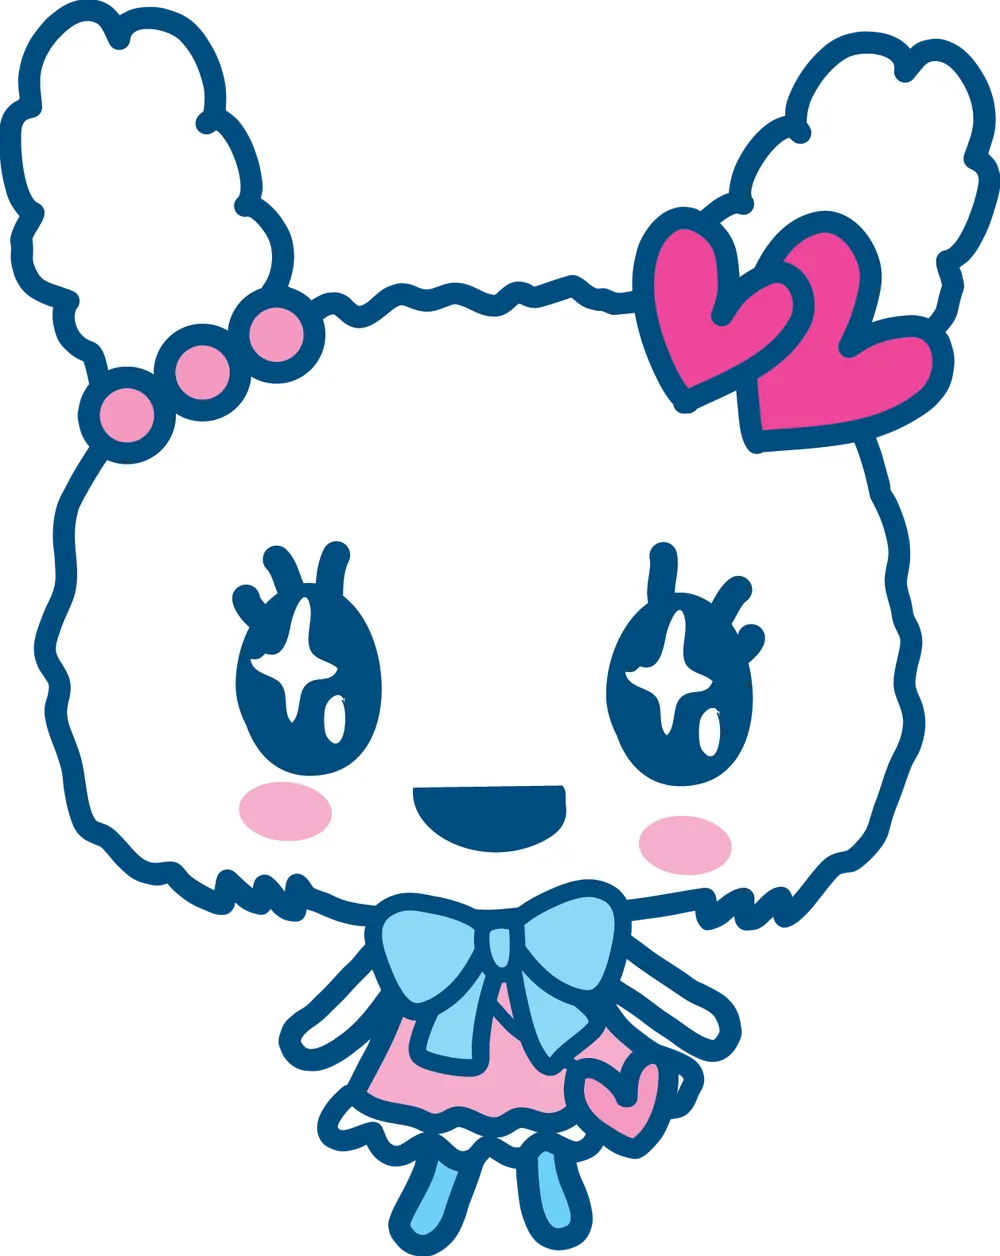
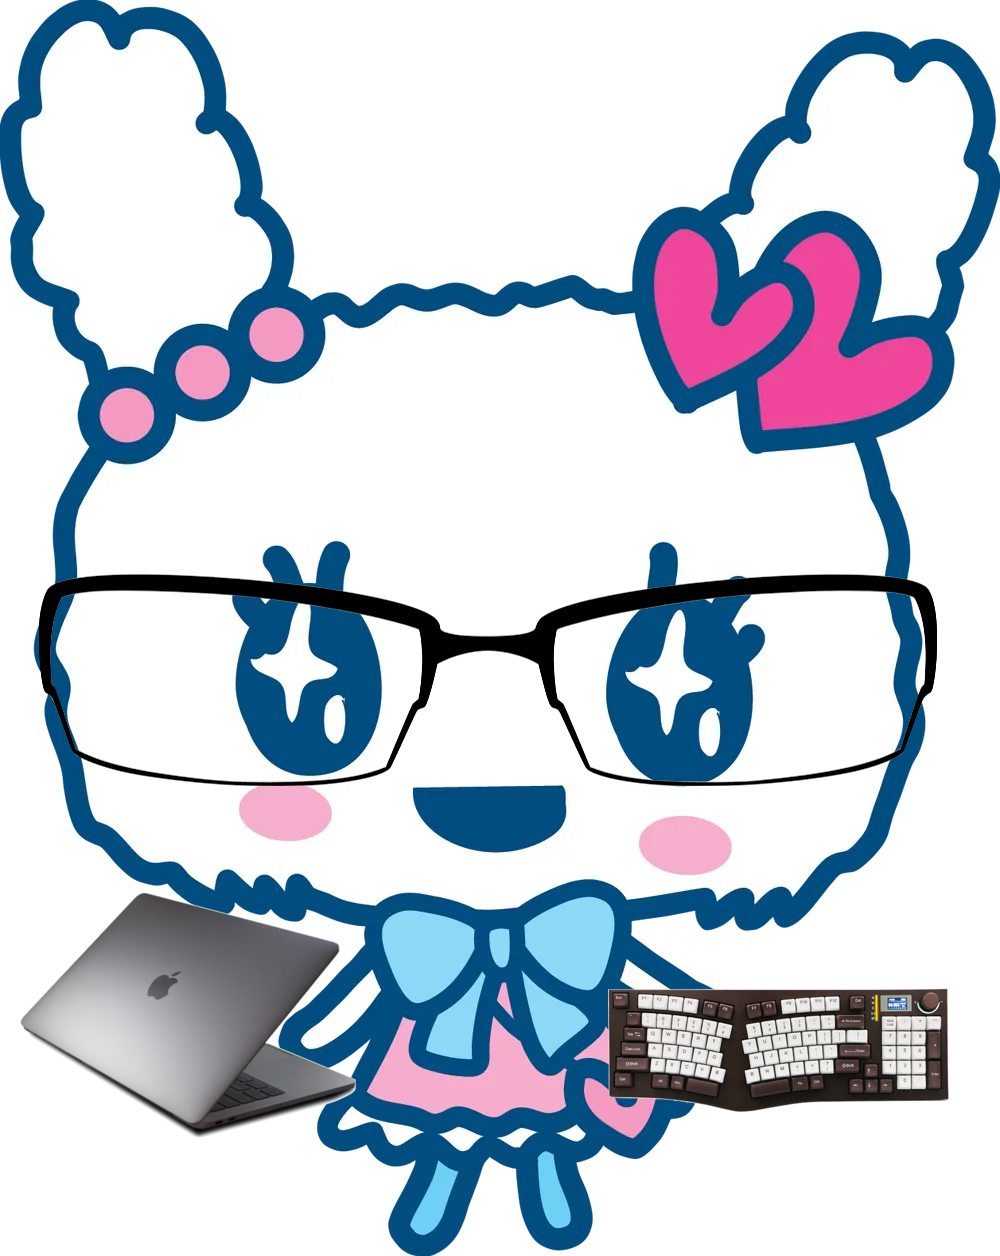
프로필 이미지 변경, 배경색 바꿈

diff --git a/_sass/minimal-mistakes/skins/_sunrise.scss b/_sass/minimal-mistakes/skins/_sunrise.scss
@@ -3,40 +3,40 @@
    ========================================================================== */
 
 /* Colors */
-$dark-gray: #2b353a !default;
-$background-color: rgba(222, 194, 251, 0.87) !default;
-$text-color: #313131 !default;
-$muted-text-color: $dark-gray !default;
-$primary-color: #464646 !default;
-$border-color: mix(#000, $background-color, 20%) !default;
-$code-background-color: mix(#fff, $background-color, 20%) !default;
-$code-background-color-dark: mix(#000, $background-color, 10%) !default;
-$form-background-color: mix(#fff, $background-color, 15%) !default;
-$footer-background-color: rgba(190, 253, 255, 0.65) !default;
-$link-color: mix(#000, $primary-color, 10%) !default;
-$link-color-hover: mix(rgba(61, 128, 255, 0.68), $link-color, 25%) !default;
-$link-color-visited: mix(#000, $link-color, 25%) !default;
-$masthead-link-color: $text-color !default;
-$masthead-link-color-hover: mix(#000, $text-color, 20%) !default;
-$navicon-link-color-hover: mix(#000, $background-color, 30%) !default;
+$dark-gray: #6f767d;
+$background-color: rgba(245, 236, 248, 0.84);
+$text-color: #464646 ;
+$muted-text-color: rgba(61, 128, 255, 0.68);
+$primary-color: #464646 ;
+$border-color: mix(#000, $background-color, 20%) ;
+$code-background-color: mix(#fff, $background-color, 20%) ;
+$code-background-color-dark: mix(#000, $background-color, 10%) ;
+$form-background-color: mix(#fff, $background-color, 15%) ;
+$footer-background-color: rgba(142, 142, 142, 0.65);
+$link-color: mix(#000, $primary-color, 10%) ;
+$link-color-hover: mix(rgba(61, 128, 255, 0.68), $link-color, 25%) ;
+$link-color-visited: mix(#000, $link-color, 25%) ;
+$masthead-link-color: $text-color ;
+$masthead-link-color-hover: mix(#000, $text-color, 20%) ;
+$navicon-link-color-hover: mix(#000, $background-color, 30%) ;
 
 /* sunrise syntax highlighting (base16) */
-$base00: #1d1f21 !default;
-$base01: #282a2e !default;
-$base02: #373b41 !default;
-$base03: #969896 !default;
-$base04: #b4b7b4 !default;
-$base05: #c5c8c6 !default;
-$base06: #e0e0e0 !default;
-$base07: #ffffff !default;
-$base08: #cc6666 !default;
-$base09: #de935f !default;
-$base0a: #f0c674 !default;
-$base0b: #b5bd68 !default;
-$base0c: #8abeb7 !default;
-$base0d: #81a2be !default;
-$base0e: #b294bb !default;
-$base0f: #a3685a !default;
+$base00: #1d1f21 ;
+$base01: #282a2e ;
+$base02: #373b41 ;
+$base03: #969896 ;
+$base04: #b4b7b4 ;
+$base05: #c5c8c6 ;
+$base06: #e0e0e0 ;
+$base07: #ffffff ;
+$base08: #cc6666 ;
+$base09: #de935f ;
+$base0a: #f0c674 ;
+$base0b: #b5bd68 ;
+$base0c: #8abeb7 ;
+$base0d: #81a2be ;
+$base0e: #b294bb ;
+$base0f: #a3685a ;
 
 .author__urls.social-icons .fa,
 .page__footer-follow .social-icons .svg-inline--fa {

diff --git a/_sass/minimal-mistakes/_sidebar.scss b/_sass/minimal-mistakes/_sidebar.scss
@@ -127,8 +127,8 @@
   }
 
   img {
-    max-width: 110px;
-    border-radius: 50%;
+    max-width: 150px;
+    border-radius: 5%;
 
     @include breakpoint($large) {
       padding: 5px;
